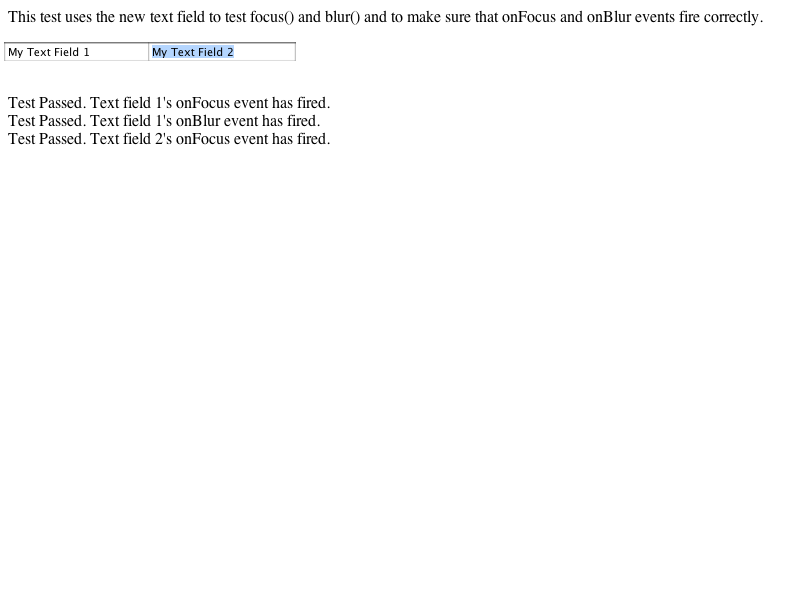
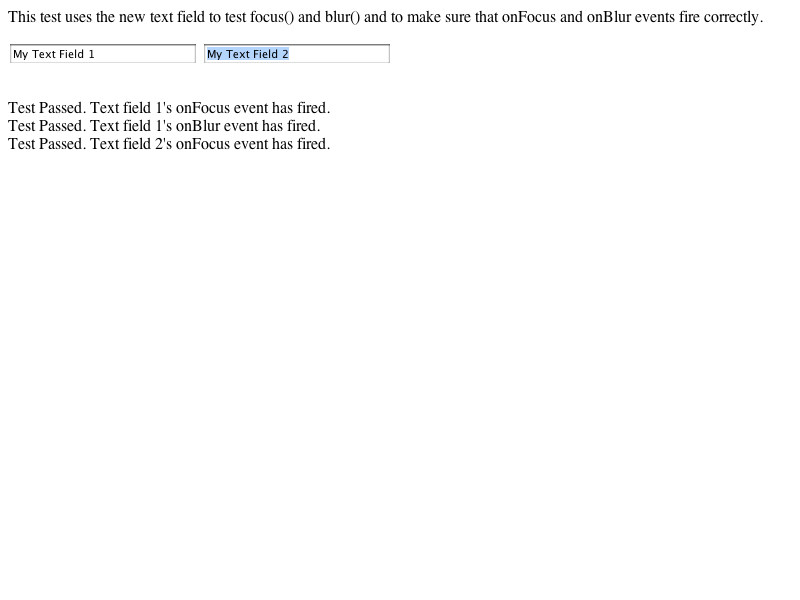
LayoutTests:
Tests for http://bugzilla.opendarwin.org/show_bug.cgi?id=6815
        Calculate correct width for new text fields

        * fast/forms/input-appearance-width.html: Added.
        * fast/forms/input-appearance-width-expected.txt: Added.
        * fast/forms/input-appearance-width-expected.png: Added.
        * fast/forms/input-appearance-width-expected.checksum: Added.
        * fast/forms/input-appearance-minWidth.html: Added.
        * fast/forms/input-appearance-minWidth-expected.txt: Added.
        * fast/forms/input-appearance-minWidth-expected.png: Added.
        * fast/forms/input-appearance-minWidth-expected.checksum: Added.

WebCore:

        Reviewed by Maciej.

        http://bugzilla.opendarwin.org/show_bug.cgi?id=6815
        Calculate correct width for new text fields

        Tests:
        fast/forms/input-appearance-width.html
        fast/forms/input-appearance-minWidth.html

        * rendering/RenderTextField.cpp:
        (WebCore::RenderTextField::createDivStyle): Remove fixed width for text field.
        (WebCore::RenderTextField::calcMinMaxWidth): Added.  This calls RenderBlock::calcMinMaxWidth and 
         then uses the size attribute to determine what the maxWidth should be.
        * rendering/RenderTextField.h: Added calcMinMaxWidth.
        * rendering/render_theme_mac.h: Added adjustTextFieldStyle.
        * rendering/render_theme_mac.mm:
[…]

Changed region(s): [[0.0, 0.15, 0.4062, 0.27], [0.0, 0.06, 0.4688, 0.12]]

diff --git a/fast/forms/input-appearance-minWidth.html b/fast/forms/input-appearance-minWidth.html
@@ -1,0 +1,33 @@
+<html>
+<head>
+<style>
+.test { width: 100%; -khtml-appearance: textfield; }
+</style>
+</head>
+<body>
+
+This tests that text fields have the correct minWidth.
+
+<table border="0" cellspacing="1" cellpadding="1" width="100%">
+<tr>
+<td nowrap><input type="text" value="New Mail" class="test"></td>
+<td><input type="text" value="Reply" class="test"></td>
+<td><input type="text" value="Reply All" class="test"></td>
+<td width="100%">&nbsp;</td>
+</tr>
+</table>
+
+<table border="0" cellspacing="1" cellpadding="1" width="100%">
+<tr>
+<td nowrap><input type="text" size="50" value="New Mail" class="test"></td>
+<td><input type="text" size="50" value="Reply" class="test"></td>
+<td><input type="text" size="50" value="Reply All" class="test"></td>
+<td width="100%">&nbsp;</td>
+</tr>
+</table>
+
+<br>
+<br>
+
+</body>
+</html>

diff --git a/fast/forms/input-appearance-width.html b/fast/forms/input-appearance-width.html
@@ -1,0 +1,6 @@
+This tests that the new text fields use the correct width.<br>
+<input type="text" value="" style="-khtml-appearance: textfield"></input><br>
+<input type="text" value="styled width 200px" style="-khtml-appearance: textfield; width:200px"></input><br>
+<input type="text" value="size 50" style="-khtml-appearance: textfield" size=50><br>
+<input type="text" value="styled width 200px & size=10" style="-khtml-appearance: textfield; width:200px" size=10></input><br>
+<input type="text" value="size 10" style="-khtml-appearance: textfield" size=10><br>
